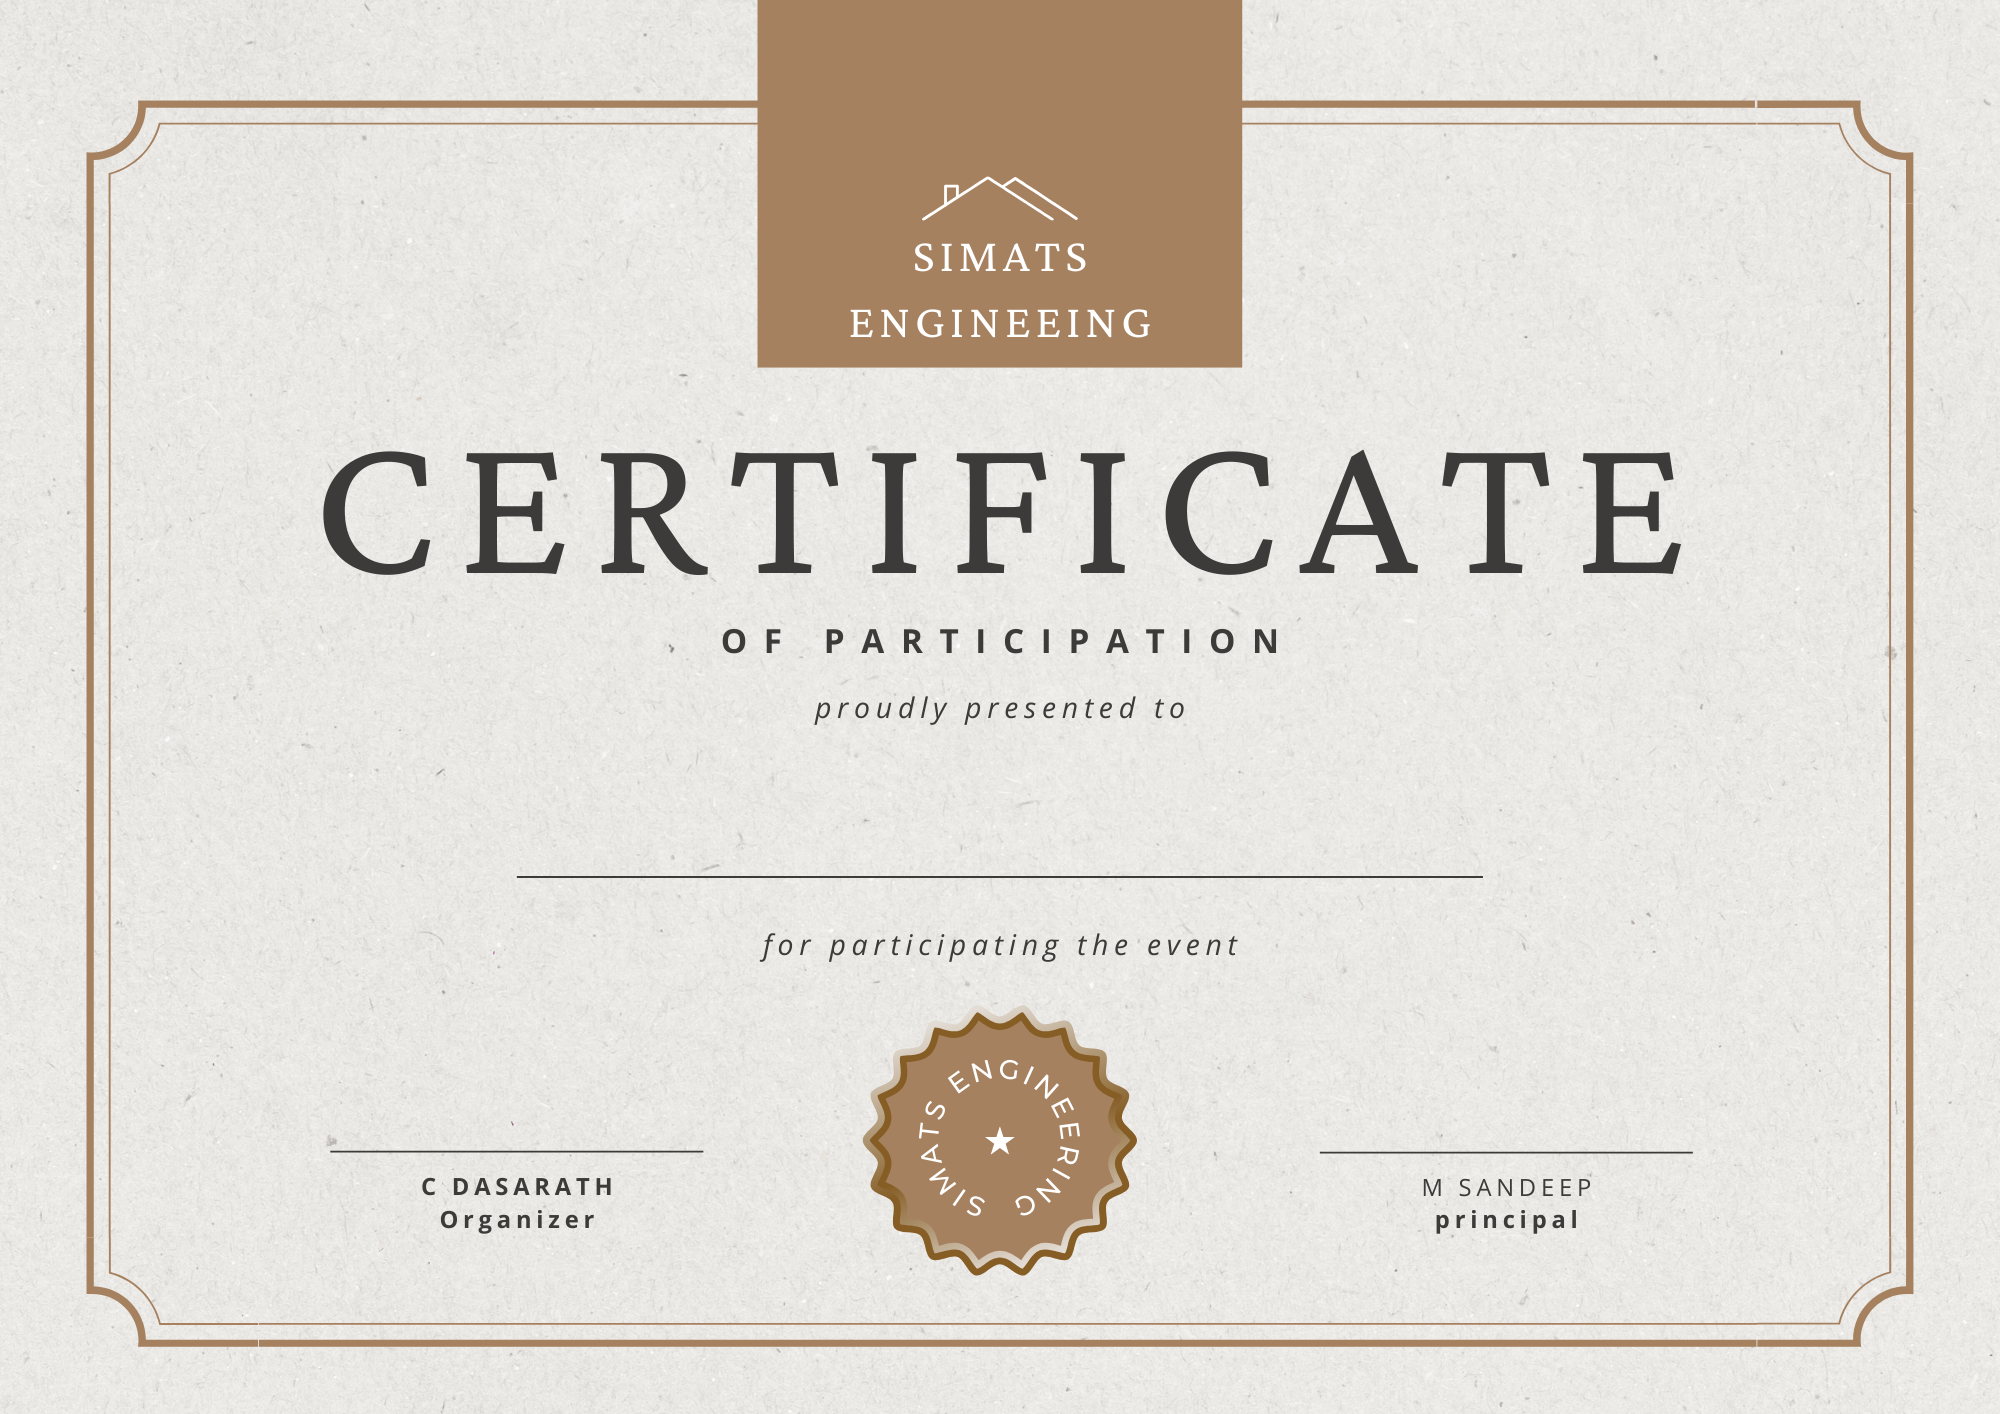
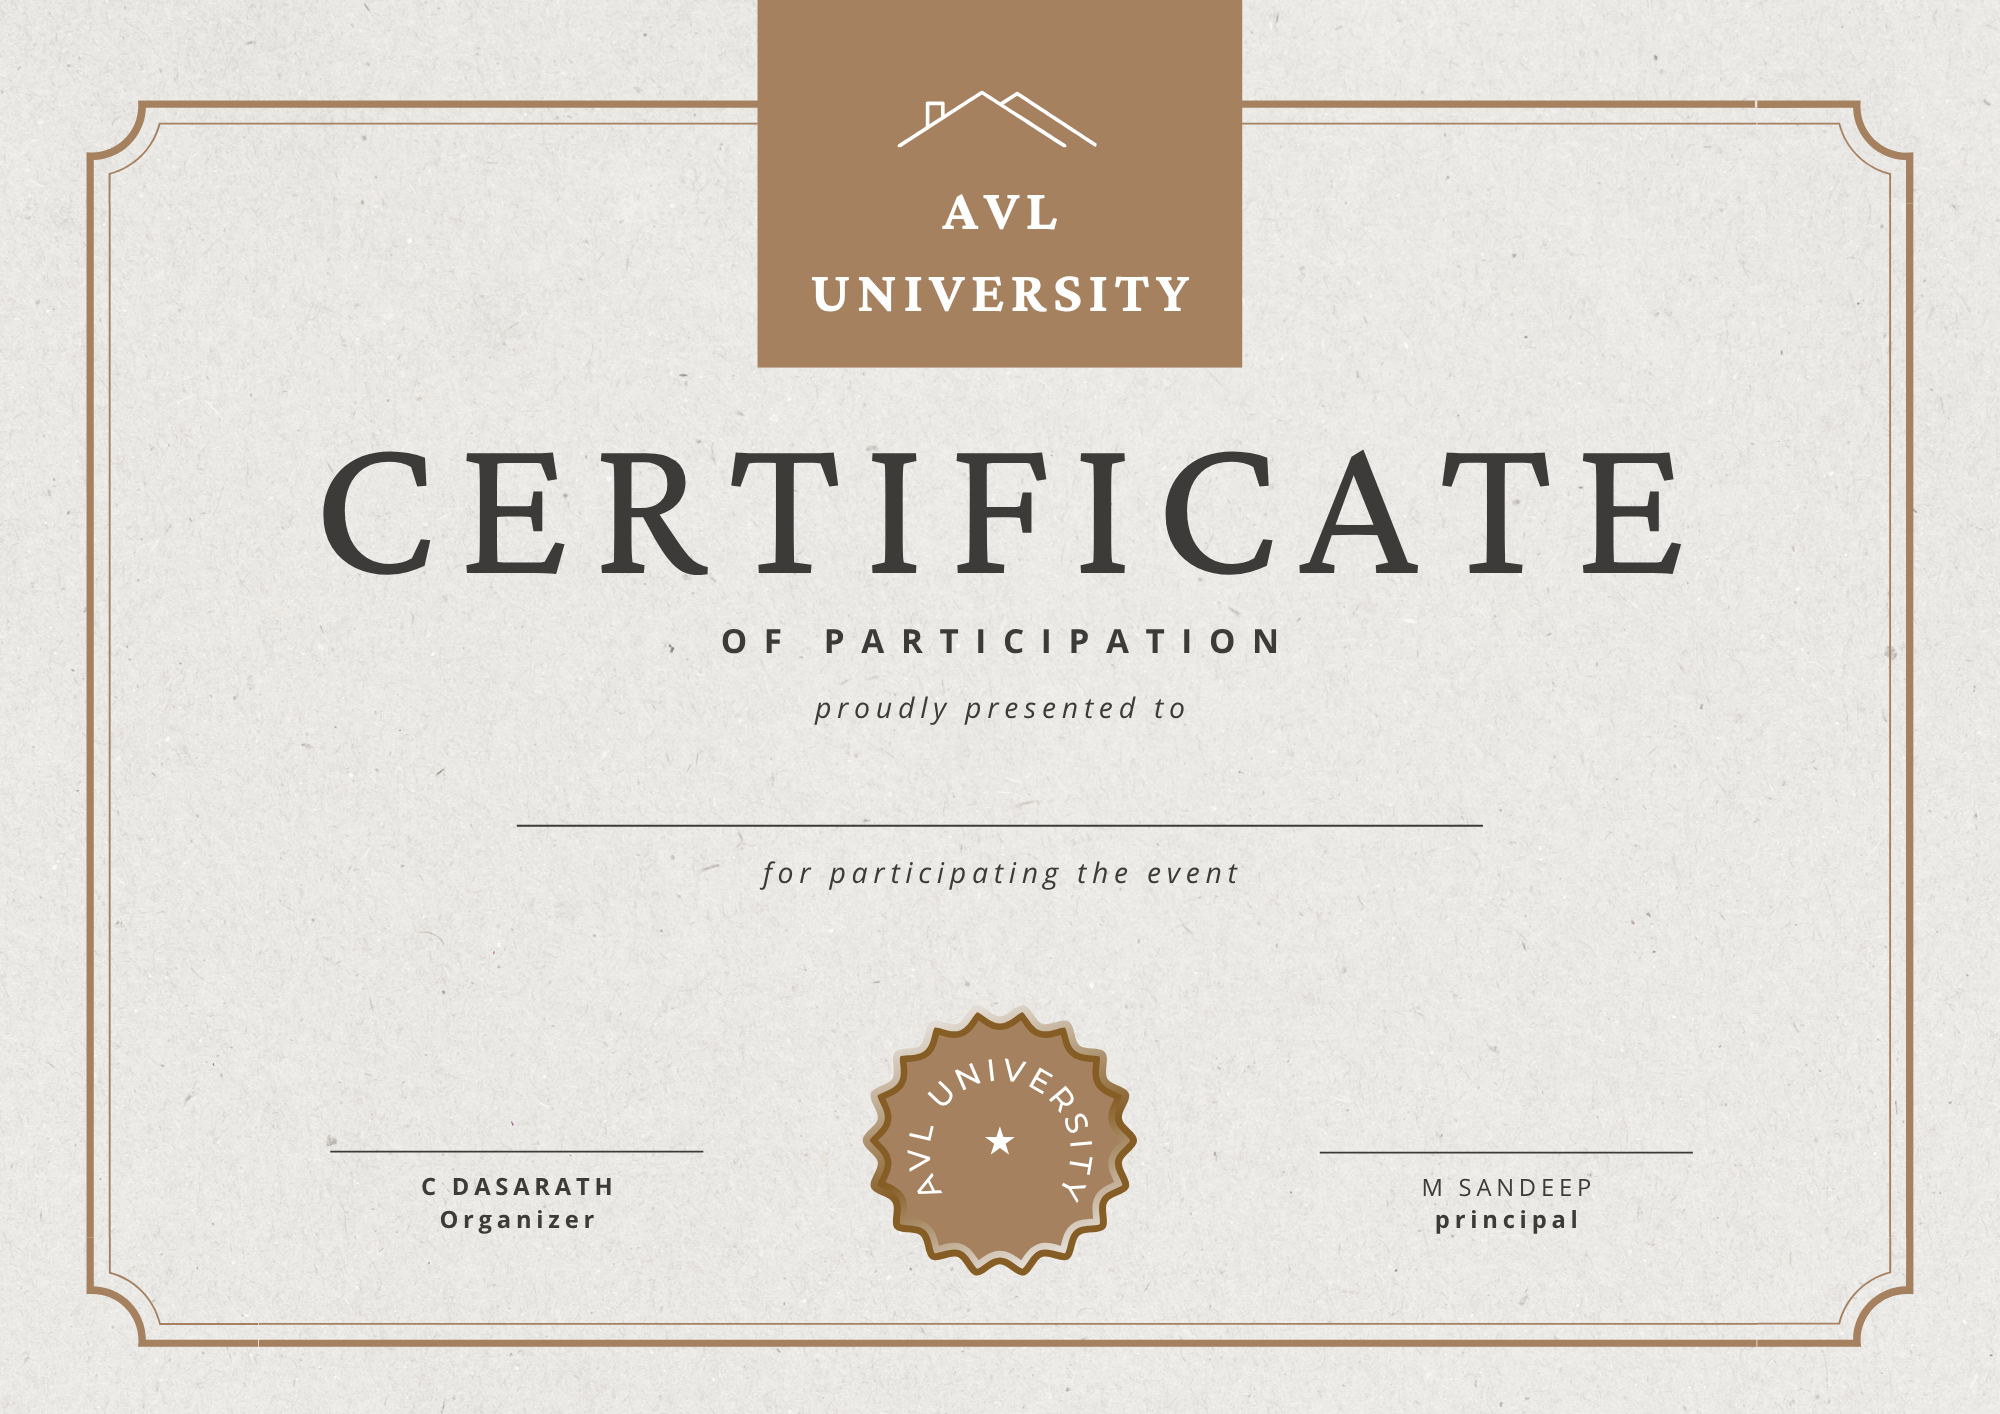
Edited certificate to have new look

diff --git a/src/components/ui/CertificateDownload.jsx b/src/components/ui/CertificateDownload.jsx
@@ -2,7 +2,7 @@ import { useRef, useState, useEffect } from 'react'
 import { IoDownloadOutline, IoLockClosed, IoPrintOutline } from 'react-icons/io5'
 import html2pdf from 'html2pdf.js'
 import Button from './Button'
-import { checkUserAttendance } from '../../services/eventService'
+import { subscribeUserAttendance } from '../../services/eventService'
 
 export default function CertificateDownload({ studentName, eventName, userId, eventId, eventDate }) {
     const certificateRef = useRef(null)
@@ -11,21 +11,30 @@ export default function CertificateDownload({ studentName, eventName, userId, ev
     const [loading, setLoading] = useState(true)
 
     useEffect(() => {
-        const checkStatus = async () => {
-            if (!userId || !eventId) {
-                setLoading(false)
-                return
-            }
-            try {
-                const hasAttended = await checkUserAttendance(eventId, userId)
-                setAttended(hasAttended)
-            } catch (error) {
-                console.error('Failed to verify attendance:', error)
-            } finally {
-                setLoading(false)
-            }
+        if (!userId || !eventId) {
+            setAttended(false)
+            setLoading(false)
+            return () => { }
         }
-        checkStatus()
+
+        setLoading(true)
+
+        const unsubscribe = subscribeUserAttendance(
+            eventId,
+            userId,
+            (hasAttended) => {
+                setAttended(hasAttended)
+                setLoading(false)
+            },
+            (error) => {
+                console.error('Failed to verify attendance:', error)
+                setLoading(false)
+            }
+        )
+
+        return () => {
+            unsubscribe()
+        }
     }, [userId, eventId])
 
     const handleDownload = async () => {
@@ -111,93 +120,34 @@ export default function CertificateDownload({ studentName, eventName, userId, ev
             <div style={{ position: 'absolute', left: '-9999px', top: 0 }}>
                 <div
                     ref={certificateRef}
-                    className="w-[1123px] h-[794px] bg-white p-12 text-dark-900 relative"
+                    className="w-[1123px] h-[794px] bg-white relative"
                     style={{ fontFamily: "'Times New Roman', serif" }}
                 >
-                    {/* Decorative Border */}
-                    <div className="h-full w-full border-8 border-double border-primary-800 p-8 relative">
-                        {/* Corner Ornaments */}
-                        <div className="absolute top-2 left-2 w-16 h-16 border-t-4 border-l-4 border-primary-600"></div>
-                        <div className="absolute top-2 right-2 w-16 h-16 border-t-4 border-r-4 border-primary-600"></div>
-                        <div className="absolute bottom-2 left-2 w-16 h-16 border-b-4 border-l-4 border-primary-600"></div>
-                        <div className="absolute bottom-2 right-2 w-16 h-16 border-b-4 border-r-4 border-primary-600"></div>
+                    <img
+                        src="/certificate-bg.png"
+                        alt=""
+                        className="absolute inset-0 w-full h-full object-cover z-0"
+                    />
 
-                        <div className="h-full flex flex-col items-center justify-between text-center pt-12 pb-24">
+                    {/* Participant Name Overlay */}
+                    <div className="absolute top-[50%] left-0 w-full text-center z-10">
+                        <span className="text-5xl font-bold text-dark-900 font-serif italic tracking-wide">
+                            {studentName || 'Student Name'}
+                        </span>
+                    </div>
 
-                            {/* Header */}
-                            <div className="space-y-4">
-                                <div className="text-primary-800 opacity-80 uppercase tracking-[0.2em] font-bold">
-                                    College Event Management System
-                                </div>
-                                <h1 className="text-6xl font-bold text-dark-900 uppercase tracking-wider text-primary-900" style={{ fontFamily: 'serif' }}>
-                                    Certificate
-                                </h1>
-                                <h2 className="text-2xl italic text-dark-600 font-serif">
-                                    of Participation
-                                </h2>
-                            </div>
+                    {/* Event Name Overlay */}
+                    <div className="absolute top-[62%] left-0 w-full text-center z-10">
+                        <span className="text-4xl font-bold text-dark-800 tracking-wide">
+                            {eventName || 'Event Name'}
+                        </span>
+                    </div>
 
-                            {/* Main Content */}
-                            <div className="space-y-6 my-8 w-full max-w-4xl">
-                                <p className="text-xl text-dark-600">This is to certify that</p>
-
-                                <div className="text-5xl font-bold text-primary-700 py-4 border-b-2 border-dark-200 mx-auto w-3/4 font-serif italic">
-                                    {studentName || 'Student Name'}
-                                </div>
-
-                                <p className="text-xl text-dark-600 mt-6">
-                                    has successfully participated in the event
-                                </p>
-
-                                <div className="text-3xl font-bold text-dark-800 mt-2">
-                                    {eventName || 'Event Name'}
-                                </div>
-
-                                <p className="text-lg text-dark-500 mt-4">
-                                    Held on {eventDate ? new Date(eventDate).toLocaleDateString(undefined, {
-                                        weekday: 'long',
-                                        year: 'numeric',
-                                        month: 'long',
-                                        day: 'numeric'
-                                    }) : new Date().toLocaleDateString(undefined, {
-                                        weekday: 'long',
-                                        year: 'numeric',
-                                        month: 'long',
-                                        day: 'numeric'
-                                    })}
-                                </p>
-                            </div>
-
-                            {/* Footer / Signatures */}
-                            <div className="flex justify-between w-full px-20 mt-12">
-                                <div className="text-center">
-                                    <div className="w-64 border-b border-dark-800 mb-2"></div>
-                                    <p className="font-bold text-dark-800">Event Coordinator</p>
-                                    <p className="text-sm text-dark-500">Signature</p>
-                                </div>
-
-                                <div className="flex flex-col items-center justify-center">
-                                    {/* Optional Seal / Badge */}
-                                    <div className="w-24 h-24 rounded-full border-4 border-primary-200 flex items-center justify-center bg-primary-50 text-primary-800 font-bold shadow-inner">
-                                        SEAL
-                                    </div>
-                                </div>
-
-                                <div className="text-center">
-                                    <div className="w-64 border-b border-dark-800 mb-2"></div>
-                                    <p className="font-bold text-dark-800">Principal / Authority</p>
-                                    <p className="text-sm text-dark-500">Signature</p>
-                                </div>
-                            </div>
-
-                            {/* ID or Ref Code */}
-                            <div className="absolute bottom-8 left-0 w-full text-center">
-                                <p className="text-xs text-dark-300 font-mono">
-                                    Certificate ID: {Math.random().toString(36).substr(2, 9).toUpperCase()}
-                                </p>
-                            </div>
-
-                        </div>
+                    {/* ID or Ref Code Overlay */}
+                    <div className="absolute bottom-[7%] left-0 w-full text-center z-10">
+                        <p className="text-sm text-dark-800 opacity-70 font-mono">
+                            Certificate ID: {Math.random().toString(36).substr(2, 9).toUpperCase()}
+                        </p>
                     </div>
                 </div>
             </div>

diff --git a/src/components/layout/Navbar.jsx b/src/components/layout/Navbar.jsx
@@ -18,6 +18,19 @@ export default function Navbar() {
       <nav className="sticky top-0 z-30 bg-white/80 backdrop-blur-md border-b border-dark-100">
         <div className="max-w-7xl mx-auto px-4 sm:px-6">
           <div className="flex items-center justify-between h-16">
+            {/* Mobile menu button */}
+            <button
+              className="md:hidden text-dark-600"
+              onClick={() => setMobileMenu(!mobileMenu)}
+              aria-label={mobileMenu ? 'Close menu' : 'Open menu'}
+            >
+              {mobileMenu ? (
+                <IoCloseOutline size={24} />
+              ) : (
+                <IoMenuOutline size={24} />
+              )}
+            </button>
+
             {/* Logo */}
             <Link to="/" className="flex items-center gap-2">
               <div className="w-8 h-8 bg-primary-500 rounded-lg flex items-center justify-center">
@@ -93,17 +106,22 @@ export default function Navbar() {
               )}
             </div>
 
-            {/* Mobile menu button */}
-            <button
-              className="md:hidden text-dark-600"
-              onClick={() => setMobileMenu(!mobileMenu)}
-            >
-              {mobileMenu ? (
-                <IoCloseOutline size={24} />
-              ) : (
-                <IoMenuOutline size={24} />
-              )}
-            </button>
+            {/* Mobile Auth */}
+            {!isAuthenticated ? (
+              <Button
+                className="md:hidden"
+                variant="primary"
+                size="sm"
+                onClick={() => {
+                  setAuthModal(true)
+                  setMobileMenu(false)
+                }}
+              >
+                Sign in
+              </Button>
+            ) : (
+              <div className="md:hidden w-6" />
+            )}
           </div>
 
           {/* Mobile Menu */}
@@ -146,17 +164,7 @@ export default function Navbar() {
                       Sign out
                     </button>
                   </>
-                ) : (
-                  <Button
-                    size="sm"
-                    onClick={() => {
-                      setAuthModal(true)
-                      setMobileMenu(false)
-                    }}
-                  >
-                    Join CampusEvents
-                  </Button>
-                )}
+                ) : null}
               </div>
             </div>
           )}

diff --git a/src/services/eventService.js b/src/services/eventService.js
@@ -11,6 +11,7 @@ import {
   where,
   serverTimestamp,
   limit,
+  onSnapshot,
 } from 'firebase/firestore'
 import { db } from './firebase'
 
@@ -87,6 +88,37 @@ export const checkUserAttendance = async (eventId, userId) => {
     console.error('Error checking attendance:', error)
     return false
   }
+}
+
+export const subscribeUserAttendance = (eventId, userId, onChange, onError) => {
+  if (!eventId || !userId) {
+    if (typeof onChange === 'function') onChange(false)
+    return () => { }
+  }
+
+  const q = query(
+    collection(db, REGISTRATIONS_COLLECTION),
+    where('eventId', '==', eventId),
+    where('uid', '==', userId),
+    limit(1)
+  )
+
+  return onSnapshot(
+    q,
+    (snapshot) => {
+      if (snapshot.empty) {
+        if (typeof onChange === 'function') onChange(false)
+        return
+      }
+
+      const hasAttended = snapshot.docs[0].data().attended || false
+      if (typeof onChange === 'function') onChange(hasAttended)
+    },
+    (error) => {
+      console.error('Error listening for attendance updates:', error)
+      if (typeof onError === 'function') onError(error)
+    }
+  )
 }
 
 export const fetchRegistrations = async (eventId) => {
